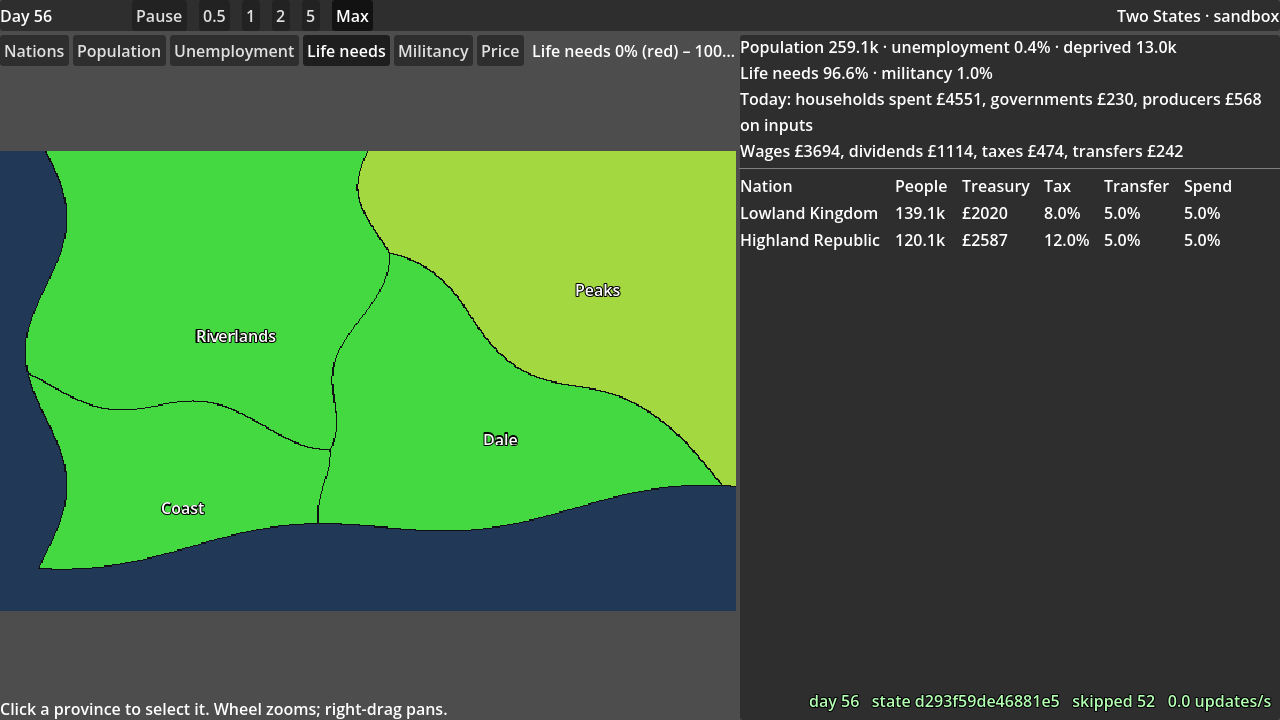
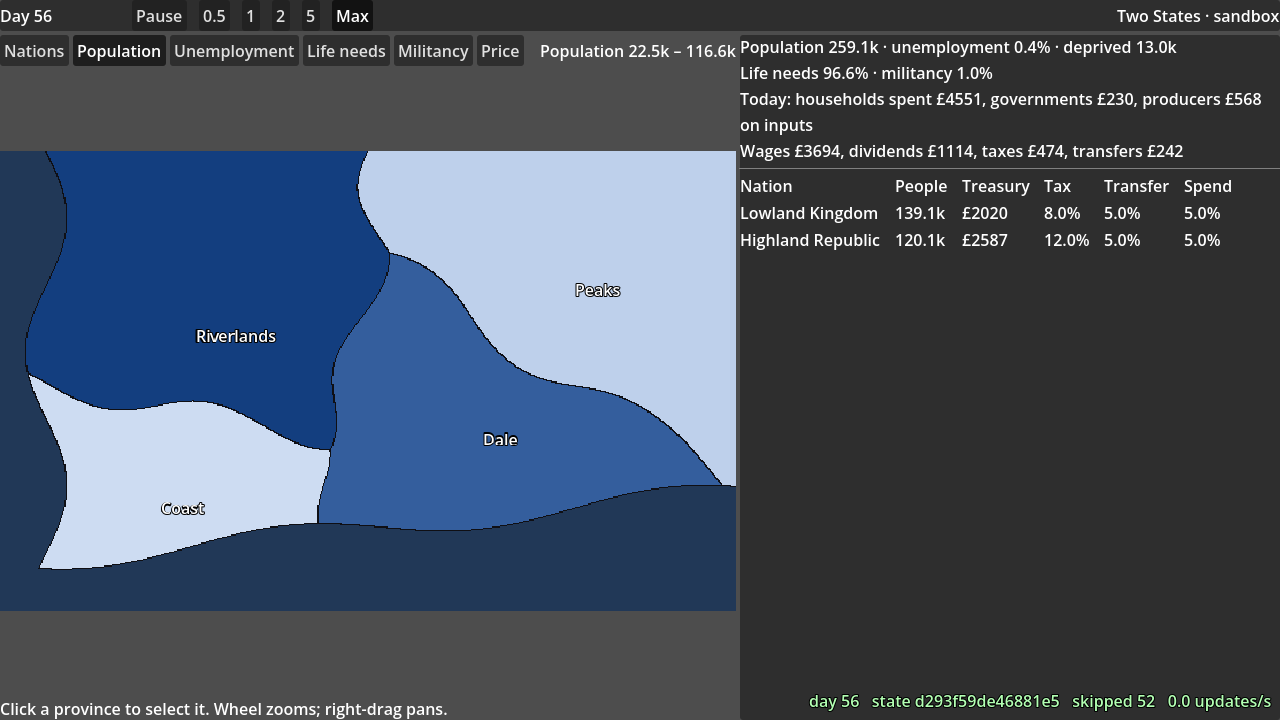
Apply #44's suggestions: one pacing table; keep-alive without truncation; typed read errors
- `pax_protocol::day_interval` is D23's pacing table. The server's clock paces with
  it, and `pax_keys.gd` carries it as SPEED_DAY_MS (generated, contiguity tested),
  so the top bar's labels and tooltips can't disagree with the server.
- KEEP_ALIVE is a fifth of IDLE_TIMEOUT in milliseconds (no whole-second
  truncation), with a test that it stays well inside the timeout.
- `RequestReader::next_request` returns a `ReadError` (frame, decode, or each
  session rule) whose Display is the Goodbye reason.
- The decoder requires Rejected/Goodbye reasons and SaveList names (the server
  always sends them), and a stale keys.rs comment is fixed.

diff --git a/crates/pax_server/src/net.rs b/crates/pax_server/src/net.rs
@@ -121,17 +121,41 @@ impl RequestReader {
     }
 
     /// The next request; `Ok(None)` until more bytes arrive. An error is a protocol
-    /// error that ends the session with `Goodbye` (D22), and its text is the reason.
-    pub fn next_request(&mut self) -> Result<Option<Request>, String> {
-        let Some(frame) = self.decoder.next_frame().map_err(|e| e.to_string())? else { return Ok(None) };
-        let request = request::decode(&frame).map_err(|e| e.to_string())?;
+    /// error that ends the session with `Goodbye` (D22); its text is the reason.
+    pub fn next_request(&mut self) -> Result<Option<Request>, ReadError> {
+        let Some(frame) = self.decoder.next_frame().map_err(ReadError::Frame)? else { return Ok(None) };
+        let request = request::decode(&frame).map_err(ReadError::Decode)?;
         match (&request, self.greeted) {
             (Request::Hello { .. }, false) => self.greeted = true,
-            (Request::Hello { .. }, true) => return Err("Hello sent twice".to_owned()),
-            (_, false) => return Err("the first message must be Hello".to_owned()),
+            (Request::Hello { .. }, true) => return Err(ReadError::HelloTwice),
+            (_, false) => return Err(ReadError::NoHello),
             (_, true) => {}
         }
         Ok(Some(request))
+    }
+}
+
+/// Why a connection's input ends the session, by kind, so callers (the fuzz target,
+/// future metrics) can tell them apart. `Display` is the `Goodbye` reason.
+#[derive(Debug)]
+pub enum ReadError {
+    /// The byte stream can't be split into frames.
+    Frame(pax_protocol::FrameError),
+    /// A frame isn't a usable request.
+    Decode(request::RequestError),
+    /// The session rules: `Hello` first, and only once.
+    HelloTwice,
+    NoHello,
+}
+
+impl std::fmt::Display for ReadError {
+    fn fmt(&self, f: &mut std::fmt::Formatter<'_>) -> std::fmt::Result {
+        match self {
+            ReadError::Frame(e) => write!(f, "{e}"),
+            ReadError::Decode(e) => write!(f, "{e}"),
+            ReadError::HelloTwice => write!(f, "Hello sent twice"),
+            ReadError::NoHello => write!(f, "the first message must be Hello"),
+        }
     }
 }
 
@@ -205,7 +229,7 @@ async fn connection(stream: TcpStream, session: u64, sim: flume::Sender<Inbound>
             let request = match reader.next_request() {
                 Ok(Some(request)) => request,
                 Ok(None) => break,
-                Err(reason) => break 'read Some(reason),
+                Err(e) => break 'read Some(e.to_string()),
             };
             if let Request::Ping { nonce } = request {
                 if out_tx.try_send(Outbound::Frame(encode::pong(nonce))).is_err() {

diff --git a/crates/pax_godot/src/keys.rs b/crates/pax_godot/src/keys.rs
@@ -89,7 +89,7 @@ keys! {
     DEPRIVED = "deprived",
     LIFE_NEEDS = "life_needs",
     MILITANCY = "militancy",
-    // NationTable (`NATIONS` in a DayUpdate). Rates are raw Fixed integers (D3).
+    // NationTable columns (inside `NATION_TABLE`). Rates are raw Fixed integers (D3).
     TREASURY = "treasury",
     INCOME_TAX_RATE_RAW = "income_tax_rate_raw",
     TRANSFER_RATE_RAW = "transfer_rate_raw",
@@ -188,6 +188,14 @@ pub fn gdscript() -> String {
         .map(|v| format!("\"{}\"", v.variant_name().expect("listed")))
         .collect();
     out.push_str(&format!("## CommandError names, by value.\nconst COMMAND_ERROR_NAMES := [{}]\n", names.join(", ")));
+    let intervals: Vec<String> = pax_protocol::wire::Speed::ENUM_VALUES
+        .iter()
+        .map(|&s| pax_protocol::day_interval(s).map_or("null".to_owned(), |d| d.as_millis().to_string()))
+        .collect();
+    out.push_str(&format!(
+        "## Milliseconds per day at each speed, by value (D23); null when paused.\nconst SPEED_DAY_MS := [{}]\n",
+        intervals.join(", ")
+    ));
     out.push_str("\n## Policy names for PaxClient.submit_policy.\n");
     for p in crate::encode::Policy::ALL {
         out.push_str(&format!("const POLICY_{} := \"{}\"\n", p.name().to_uppercase(), p.name()));
@@ -199,10 +207,13 @@ pub fn gdscript() -> String {
 mod tests {
     use super::*;
 
-    /// `COMMAND_ERROR_NAMES` is indexed by value, so the values must be 0, 1, 2, ….
+    /// `COMMAND_ERROR_NAMES` and `SPEED_DAY_MS` are indexed by value, so the values
+    /// must be 0, 1, 2, ….
     #[test]
-    fn command_error_values_are_contiguous() {
+    fn indexed_enums_are_contiguous() {
         let values: Vec<u8> = pax_protocol::wire::CommandError::ENUM_VALUES.iter().map(|v| v.0).collect();
+        assert_eq!(values, (0..values.len() as u8).collect::<Vec<_>>());
+        let values: Vec<u8> = pax_protocol::wire::Speed::ENUM_VALUES.iter().map(|v| v.0).collect();
         assert_eq!(values, (0..values.len() as u8).collect::<Vec<_>>());
     }
 

diff --git a/crates/pax_godot/src/decode.rs b/crates/pax_godot/src/decode.rs
@@ -551,11 +551,11 @@ impl ServerStream {
         Ok(match kind {
             P::Rejected => {
                 let r = required(msg.payload_as_rejected(), "Rejected body")?;
-                ServerEvent::Rejected { reason: r.reason().unwrap_or_default().to_owned() }
+                ServerEvent::Rejected { reason: required(r.reason(), "Rejected reason")?.to_owned() }
             }
             P::Goodbye => {
                 let g = required(msg.payload_as_goodbye(), "Goodbye body")?;
-                ServerEvent::Goodbye { reason: g.reason().unwrap_or_default().to_owned() }
+                ServerEvent::Goodbye { reason: required(g.reason(), "Goodbye reason")?.to_owned() }
             }
             P::DayUpdate => {
                 let u = required(msg.payload_as_day_update(), "DayUpdate body")?;
@@ -589,9 +589,7 @@ impl ServerStream {
             }
             P::SaveList => {
                 let l = required(msg.payload_as_save_list(), "SaveList body")?;
-                ServerEvent::SaveList {
-                    names: l.names().map(|n| n.iter().map(str::to_owned).collect()).unwrap_or_default(),
-                }
+                ServerEvent::SaveList { names: strings(l.names(), "SaveList names")? }
             }
             _ => ServerEvent::Unknown(kind),
         })

diff --git a/crates/pax_protocol/src/lib.rs b/crates/pax_protocol/src/lib.rs
@@ -80,6 +80,23 @@ pub const PROTOCOL_MINOR: u16 = 0;
 /// from this, so the two can't drift apart.
 pub const IDLE_TIMEOUT: std::time::Duration = std::time::Duration::from_secs(10);
 
+/// How long one day takes at a running `speed` (D23): the server paces its clock
+/// with this, and the client describes the speeds from it. `Fastest` is zero (as fast
+/// as the engine allows). `None` for `Paused`, where no days run, and for speeds this
+/// build doesn't know.
+pub fn day_interval(speed: wire::Speed) -> Option<std::time::Duration> {
+    use std::time::Duration;
+    use wire::Speed as S;
+    match speed {
+        S::Slowest => Some(Duration::from_millis(2_000)), // 0.5 days/s
+        S::Slow => Some(Duration::from_millis(1_000)),    // 1
+        S::Normal => Some(Duration::from_millis(500)),    // 2
+        S::Fast => Some(Duration::from_millis(200)),      // 5
+        S::Fastest => Some(Duration::ZERO),
+        _ => None,
+    }
+}
+
 /// The scale of `wire::Fixed`: its `raw` is the value × `FIXED_ONE` (D3), the same as
 /// `pax_engine::Fixed`. `pax_server`'s tests pin the two together; the client converts
 /// only through this.

diff --git a/crates/pax_godot/src/connection.rs b/crates/pax_godot/src/connection.rs
@@ -24,7 +24,7 @@ use crate::encode;
 
 /// Send a `Ping` after this long without sending anything: a fifth of the server's
 /// idle timeout (`pax_protocol::IDLE_TIMEOUT`), so a paused game is never dropped.
-pub const KEEP_ALIVE: Duration = Duration::from_secs(pax_protocol::IDLE_TIMEOUT.as_secs() / 5);
+pub const KEEP_ALIVE: Duration = Duration::from_millis(pax_protocol::IDLE_TIMEOUT.as_millis() as u64 / 5);
 
 /// What one poll found.
 #[derive(Debug, Default, PartialEq)]
@@ -270,4 +270,15 @@ impl Drop for LocalServer {
 fn port_file_path() -> PathBuf {
     let nanos = std::time::SystemTime::now().duration_since(std::time::UNIX_EPOCH).map_or(0, |d| d.as_nanos());
     std::env::temp_dir().join(format!("pax-port-{}-{nanos}", std::process::id()))
+}
+
+#[cfg(test)]
+mod tests {
+    use super::*;
+
+    #[test]
+    fn the_keep_alive_is_well_inside_the_idle_timeout() {
+        assert!(KEEP_ALIVE > Duration::ZERO);
+        assert!(KEEP_ALIVE * 4 < pax_protocol::IDLE_TIMEOUT);
+    }
 }

diff --git a/crates/pax_server/src/clock.rs b/crates/pax_server/src/clock.rs
@@ -18,17 +18,15 @@ pub(crate) enum Pace {
     Unknown,
 }
 
-/// Days per real second at each speed (D23).
+/// How a speed paces the clock (D23): `pax_protocol::day_interval`, the table the
+/// client describes the speeds with too.
 pub(crate) fn pace(speed: wire::Speed) -> Pace {
-    use wire::Speed as S;
-    match speed {
-        S::Paused => Pace::Paused,
-        S::Slowest => Pace::Every(Duration::from_millis(2_000)), // 0.5 days/s
-        S::Slow => Pace::Every(Duration::from_millis(1_000)),    // 1
-        S::Normal => Pace::Every(Duration::from_millis(500)),    // 2
-        S::Fast => Pace::Every(Duration::from_millis(200)),      // 5
-        S::Fastest => Pace::Every(Duration::ZERO),
-        _ => Pace::Unknown,
+    if speed == wire::Speed::Paused {
+        return Pace::Paused;
+    }
+    match pax_protocol::day_interval(speed) {
+        Some(interval) => Pace::Every(interval),
+        None => Pace::Unknown,
     }
 }
 

diff --git a/crates/pax_server/src/lib.rs b/crates/pax_server/src/lib.rs
@@ -35,7 +35,7 @@ mod window;
 #[cfg(feature = "fuzzing")]
 #[doc(hidden)]
 pub mod fuzzing {
-    pub use crate::net::RequestReader;
+    pub use crate::net::{ReadError, RequestReader};
     pub use crate::request::Request;
 }
 
